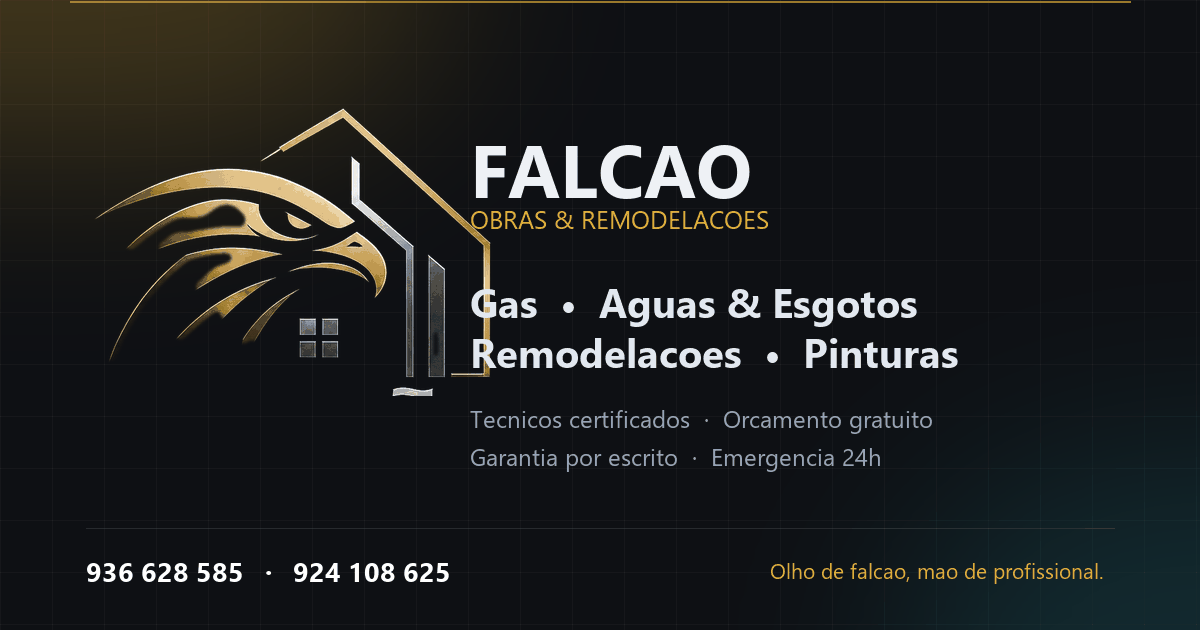
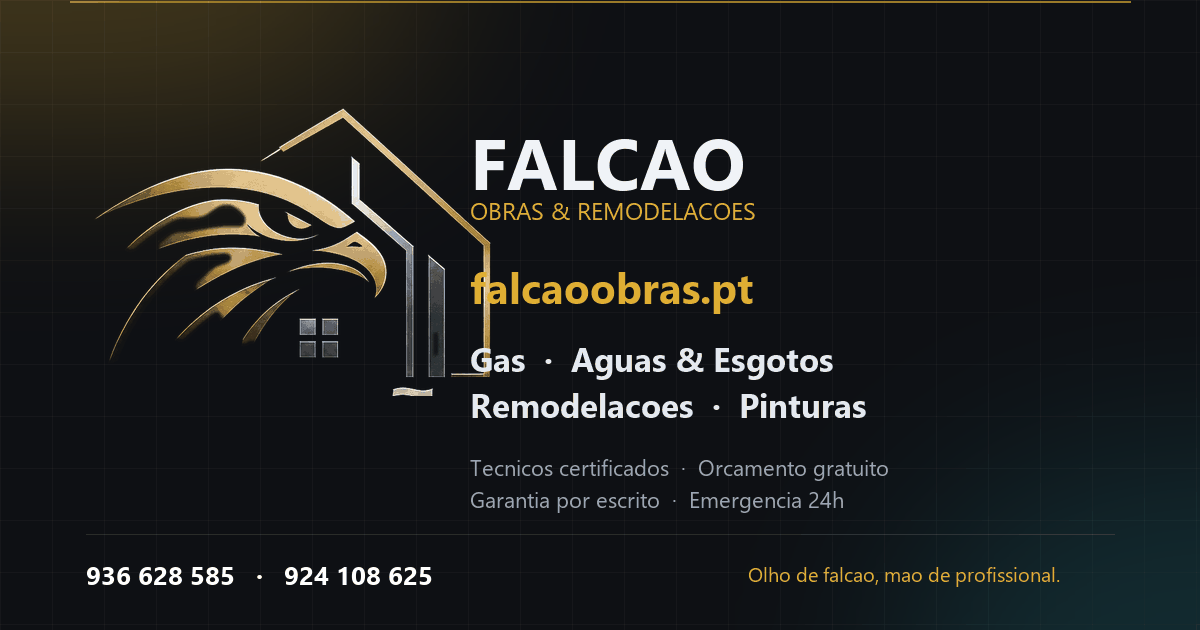
Configura o dominio proprio falcaoobras.pt: SEO, redirecionamento www, imagem de partilha e guia DNS da one.com

diff --git a/src/app/sitemap.ts b/src/app/sitemap.ts
@@ -1,10 +1,10 @@
 import type { MetadataRoute } from 'next';
-import { SECTION_IDS } from '@/lib/site';
+import { COMPANY, SECTION_IDS } from '@/lib/site';
 
 // Necessário para o modo de exportação estática (`EXPORT=1`).
 export const dynamic = 'force-static';
 
-const siteUrl = process.env.NEXT_PUBLIC_SITE_URL ?? 'https://www.falcaoobras.pt';
+const siteUrl = process.env.NEXT_PUBLIC_SITE_URL ?? COMPANY.siteUrl;
 
 export default function sitemap(): MetadataRoute.Sitemap {
   const now = new Date();

diff --git a/src/app/robots.ts b/src/app/robots.ts
@@ -1,9 +1,10 @@
 import type { MetadataRoute } from 'next';
+import { COMPANY } from '@/lib/site';
 
 // Necessário para o modo de exportação estática (`EXPORT=1`).
 export const dynamic = 'force-static';
 
-const siteUrl = process.env.NEXT_PUBLIC_SITE_URL ?? 'https://www.falcaoobras.pt';
+const siteUrl = process.env.NEXT_PUBLIC_SITE_URL ?? COMPANY.siteUrl;
 
 export default function robots(): MetadataRoute.Robots {
   return {

diff --git a/src/components/seo/StructuredData.tsx b/src/components/seo/StructuredData.tsx
@@ -5,7 +5,7 @@ import { COMPANY, whatsappHref } from '@/lib/site';
  * Ajuda o Google a exibir telefone, endereço, horários e avaliações.
  */
 export function StructuredData() {
-  const url = process.env.NEXT_PUBLIC_SITE_URL ?? 'https://www.falcaoobras.pt';
+  const url = process.env.NEXT_PUBLIC_SITE_URL ?? COMPANY.siteUrl;
 
   const data = {
     '@context': 'https://schema.org',

diff --git a/src/lib/site.ts b/src/lib/site.ts
@@ -7,6 +7,8 @@ export const COMPANY = {
   name: 'Falcão',
   legalName: 'Falcão Obras & Remodelações',
   tagline: 'Olho de falcão, mão de profissional.',
+  /** Endereço público do site (usado em SEO, partilha e dados estruturados). */
+  siteUrl: 'https://www.falcaoobras.pt',
   email: 'geral@falcaoobras.pt',
   /** Números exibidos no site (formato nacional). */
   phones: [

diff --git a/src/app/layout.tsx b/src/app/layout.tsx
@@ -23,7 +23,7 @@ const jakarta = Plus_Jakarta_Sans({
   adjustFontFallback: true,
 });
 
-const siteUrl = process.env.NEXT_PUBLIC_SITE_URL ?? 'https://www.falcaoobras.pt';
+const siteUrl = process.env.NEXT_PUBLIC_SITE_URL ?? COMPANY.siteUrl;
 
 export const metadata: Metadata = {
   metadataBase: new URL(siteUrl),

diff --git a/scripts/build_og_image.py b/scripts/build_og_image.py
@@ -1,73 +1,72 @@
-"""Gera a imagem Open Graph (1200x630) a partir da marca Falcao."""
-from PIL import Image, ImageDraw, ImageFont
+"""Gera a imagem Open Graph (1200x630) com o dominio proprio."""
+from PIL import Image, ImageDraw, ImageFont, ImageFilter
 import os
 
 OUT = r'C:\rea\falcao-site\public\og-image.png'
 BRAND = r'C:\rea\falcao-site\public\brand'
 W, H = 1200, 630
+DOMINIO = 'falcaoobras.pt'
+TELEFONES = '936 628 585   ·   924 108 625'
 
-FONT_CANDIDATES = [
-    r'C:\Windows\Fonts\segoeuib.ttf',
-    r'C:\Windows\Fonts\arialbd.ttf',
-    r'C:\Windows\Fonts\seguisb.ttf',
-    r'C:\Windows\Fonts\arial.ttf',
-]
-FONT_LIGHT = [r'C:\Windows\Fonts\segoeui.ttf', r'C:\Windows\Fonts\arial.ttf']
+FONT_BOLD = [r'C:\Windows\Fonts\segoeuib.ttf', r'C:\Windows\Fonts\arialbd.ttf', r'C:\Windows\Fonts\seguisb.ttf']
+FONT_REG = [r'C:\Windows\Fonts\segoeui.ttf', r'C:\Windows\Fonts\arial.ttf']
 
 
-def load(candidates, size):
-    for path in candidates:
-        if os.path.exists(path):
+def fonte(candidatos, tamanho):
+    for caminho in candidatos:
+        if os.path.exists(caminho):
             try:
-                return ImageFont.truetype(path, size)
+                return ImageFont.truetype(caminho, tamanho)
             except OSError:
                 continue
     return ImageFont.load_default()
 
 
-canvas = Image.new('RGB', (W, H), (14, 16, 20))
-d = ImageDraw.Draw(canvas, 'RGBA')
+base = Image.new('RGB', (W, H), (14, 16, 20))
+desenho = ImageDraw.Draw(base, 'RGBA')
 
-# grade tecnica
 for x in range(0, W, 52):
-    d.line([(x, 0), (x, H)], fill=(255, 255, 255, 8))
+    desenho.line([(x, 0), (x, H)], fill=(255, 255, 255, 8))
 for y in range(0, H, 52):
-    d.line([(0, y), (W, y)], fill=(255, 255, 255, 8))
+    desenho.line([(0, y), (W, y)], fill=(255, 255, 255, 8))
 
-# brilhos de cor
-glow = Image.new('RGBA', (W, H), (0, 0, 0, 0))
-gd = ImageDraw.Draw(glow, 'RGBA')
-gd.ellipse([-260, -300, 520, 220], fill=(223, 174, 51, 62))
-gd.ellipse([820, 380, 1500, 900], fill=(37, 154, 166, 48))
-glow = glow.filter(__import__('PIL.ImageFilter', fromlist=['ImageFilter']).GaussianBlur(120))
-canvas = Image.alpha_composite(canvas.convert('RGBA'), glow).convert('RGB')
-d = ImageDraw.Draw(canvas, 'RGBA')
+brilho = Image.new('RGBA', (W, H), (0, 0, 0, 0))
+bd = ImageDraw.Draw(brilho, 'RGBA')
+bd.ellipse([-260, -320, 520, 200], fill=(223, 174, 51, 64))
+bd.ellipse([820, 380, 1500, 900], fill=(37, 154, 166, 50))
+brilho = brilho.filter(ImageFilter.GaussianBlur(120))
+base = Image.alpha_composite(base.convert('RGBA'), brilho).convert('RGB')
+desenho = ImageDraw.Draw(base, 'RGBA')
 
-# linha dourada superior
-d.line([(70, 1), (W - 70, 1)], fill=(223, 174, 51, 170), width=2)
+desenho.line([(70, 1), (W - 70, 1)], fill=(223, 174, 51, 170), width=2)
 
-# emblema
-emblem = Image.open(os.path.join(BRAND, 'emblem.png'))
-scale = 300 / emblem.height
-emblem = emblem.resize((round(emblem.width * scale), 300), Image.LANCZOS)
-canvas.paste(emblem, (86, 96), emblem)
+emblema = Image.open(os.path.join(BRAND, 'emblem.png')).convert('RGBA')
+escala = 300 / emblema.height
+emblema = emblema.resize((round(emblema.width * escala), 300), Image.LANCZOS)
+base.paste(emblema, (86, 96), emblema)
 
-# texto
 x = 470
-d.text((x, 118), 'FALCAO', font=load(FONT_CANDIDATES, 74), fill=(238, 241, 245))
-d.text((x, 202), 'OBRAS & REMODELACOES', font=load(FONT_LIGHT, 25), fill=(223, 174, 51))
+desenho.text((x, 112), 'FALCAO', font=fonte(FONT_BOLD, 72), fill=(240, 243, 247))
+desenho.text((x, 194), 'OBRAS & REMODELACOES', font=fonte(FONT_REG, 24), fill=(223, 174, 51))
 
-title_font = load(FONT_CANDIDATES, 40)
-d.text((x, 274), 'Gas  •  Aguas & Esgotos', font=title_font, fill=(226, 232, 240))
-d.text((x, 324), 'Remodelacoes  •  Pinturas', font=title_font, fill=(226, 232, 240))
+# endereco proprio em destaque
+desenho.text((x, 258), DOMINIO, font=fonte(FONT_BOLD, 42), fill=(223, 174, 51))
 
-d.text((x, 402), 'Tecnicos certificados  ·  Orcamento gratuito', font=load(FONT_LIGHT, 24), fill=(148, 163, 184))
-d.text((x, 440), 'Garantia por escrito  ·  Emergencia 24h', font=load(FONT_LIGHT, 24), fill=(148, 163, 184))
+linha = 336
+desenho.text((x, linha), 'Gas  ·  Aguas & Esgotos', font=fonte(FONT_BOLD, 33), fill=(228, 233, 240))
+desenho.text((x, linha + 46), 'Remodelacoes  ·  Pinturas', font=fonte(FONT_BOLD, 33), fill=(228, 233, 240))
 
-# rodape com telefones
-d.line([(86, 528), (W - 86, 528)], fill=(255, 255, 255, 28), width=1)
-d.text((86, 552), '936 628 585   ·   924 108 625', font=load(FONT_CANDIDATES, 27), fill=(255, 255, 255))
-d.text((W - 430, 556), 'Olho de falcao, mao de profissional.', font=load(FONT_LIGHT, 21), fill=(223, 174, 51))
+desenho.text((x, 452), 'Tecnicos certificados  ·  Orcamento gratuito', font=fonte(FONT_REG, 22), fill=(150, 164, 184))
+desenho.text((x, 484), 'Garantia por escrito  ·  Emergencia 24h', font=fonte(FONT_REG, 22), fill=(150, 164, 184))
 
-canvas.save(OUT, 'PNG', optimize=True)
-print('og-image.png', canvas.size, os.path.getsize(OUT), 'B')
+desenho.line([(86, 534), (W - 86, 534)], fill=(255, 255, 255, 30), width=1)
+desenho.text((86, 556), TELEFONES, font=fonte(FONT_BOLD, 26), fill=(255, 255, 255))
+desenho.text((W - 452, 560), 'Olho de falcao, mao de profissional.', font=fonte(FONT_REG, 20), fill=(223, 174, 51))
+
+base_entregar = base.copy()
+base.save(OUT + '.tmp.png', 'PNG', optimize=True)
+antes = os.path.getsize(OUT + '.tmp.png')
+os.remove(OUT + '.tmp.png')
+# quantiza para reduzir peso mantendo boa qualidade
+base_entregar.convert('RGB').quantize(colors=256, method=Image.MEDIANCUT).save(OUT, 'PNG', optimize=True)
+print(f'og-image.png {base_entregar.size}  {antes:,} -> {os.path.getsize(OUT):,} B')

diff --git a/DOMINIO.md b/DOMINIO.md
@@ -1,0 +1,122 @@
+# Ligar o domínio `falcaoobras.pt` ao site
+
+Guia rápido e específico para o seu caso (**domínio na one.com** + site na Netlify).
+
+---
+
+## Situação atual (verificada)
+
+| Item | Estado |
+|---|---|
+| Domínio `falcaoobras.pt` | ✅ Registado na **one.com** |
+| Servidores de nome | `ns01.one.com` / `ns02.one.com` |
+| Aponta para | `46.30.211.38` (página padrão da one.com) |
+| Site no GitHub | ✅ https://github.com/JNTelados/falcao-obras |
+| Site publicado | ⏳ **falta este passo** |
+
+---
+
+## Passo 1 — Publicar o site na Netlify (2 minutos)
+
+1. Abra: **https://app.netlify.com/start/deploy?repository=https://github.com/JNTelados/falcao-obras**
+2. Entre com a conta **GitHub** e autorize a Netlify
+3. Confirme os campos (já vêm preenchidos pelo `netlify.toml`):
+   - **Build command:** `pnpm build:static`
+   - **Publish directory:** `out`
+4. Clique em **Deploy site**
+
+Aguarde ~2 minutos. Confirme que o site abre no endereço temporário
+(ex.: `https://algum-nome.netlify.app`).
+
+**Anote esse endereço** — vai precisar dele no Passo 3.
+
+---
+
+## Passo 2 — Adicionar o domínio na Netlify
+
+1. No painel do site: **Domain management** (ou *Domain configuration*)
+2. Clique em **Add a domain** → escreva `falcaoobras.pt`
+3. A Netlify pergunta se quer adicionar também o `www` → **aceite** (`www.falcaoobras.pt`)
+4. A Netlify recomenda o `www` como endereço principal → **confirme**
+   (o projeto já está configurado para isso, com redirecionamento 301)
+
+A Netlify vai mostrar um aviso de que o DNS ainda não está configurado. É o próximo passo.
+
+---
+
+## Passo 3 — Configurar o DNS na one.com
+
+No painel da one.com: **Domínios → falcaoobras.pt → Gerenciar DNS**
+
+### Caminho A — Registos individuais (mais simples, recomendado)
+
+Apague os registos `A` que existem e crie estes:
+
+| Tipo | Nome/Host | Valor | TTL |
+|---|---|---|---|
+| **A** | `@` (ou deixe vazio) | `75.2.60.5` | 3600 |
+| **CNAME** | `www` | `o-seu-site.netlify.app` | 3600 |
+
+> ⚠ **Substitua** `o-seu-site.netlify.app` pelo endereço que a Netlify te deu no Passo 1.
+> Na Netlify, este valor aparece em *Domain management* como "Netlify subdomain".
+
+### Caminho B — Trocar os nameservers
+
+Se preferir deixar a Netlify gerir tudo (incluindo o HTTPS automático):
+
+1. Na Netlify, em *Domain management*, copie os **4 nameservers** que ela indica
+   (algo como `dns1.p03.nsone.net`)
+2. Na one.com, em **Nameservers**, escolha "usar nameservers personalizados"
+   e cole os quatro
+3. Aguarde a propagação
+
+> O Caminho A é mais rápido de reverter; o Caminho B dá menos manutenção.
+
+---
+
+## Passo 4 — Aguardar a propagação
+
+- Costuma levar **de 15 minutos a 2 horas**
+- Pode levar até 24-48h em casos raros
+- Verifique a qualquer momento com:
+  ```powershell
+  cd C:\rea\falcao-site
+  node scripts\verificar-dominio.mjs falcaoobras.pt
+  ```
+- O **HTTPS é automático**: a Netlify emite o certificado assim que o DNS propagar
+  (aparece "Netlify managed certificate" em *Domain management → HTTPS*)
+
+---
+
+## Depois de funcionar
+
+- `https://falcaoobras.pt` → redireciona para `https://www.falcaoobras.pt` (301)
+- `https://www.falcaoobras.pt` → site oficial
+- Todo o SEO (canonical, Open Graph, sitemap, robots) já aponta para o `www`
+- A imagem de partilha (`og-image.png`) já mostra o endereço `falcaoobras.pt`
+
+### Ativar o e-mail `geral@falcaoobras.pt`
+
+O site já exibe esse endereço no rodapé e na secção de contato. Para ele funcionar:
+
+- **Na one.com:** contrate o plano de e-mail (costuma ser ~1-2 €/mês por caixa)
+- **Alternativa gratuita:** Zoho Mail tem plano grátis com domínio próprio
+  (https://www.zoho.com/mail/) — crie a caixa `geral@falcaoobras.pt` e
+  adicione os registos MX que o Zoho indicar no DNS da one.com
+
+> Se preferir usar outro e-mail, mude o endereço em `src/lib/site.ts` (campo `email`)
+> e faça `git push` — a Netlify republica sozinha.
+
+---
+
+## Cuidados com a one.com
+
+| Serviço | Precisa? |
+|---|---|
+| Domínio | ✅ Sim (já tem) |
+| Hospedagem / Web hosting | ❌ **Não** — a Netlify hospeda grátis |
+| Certificado SSL pago | ❌ **Não** — a Netlify dá HTTPS grátis |
+| E-mail profissional | ⚠ Opcional (ou use o Zoho grátis) |
+
+Se contratou hospedagem sem querer, pode cancelar: o domínio funciona
+perfeitamente apontando para a Netlify.
